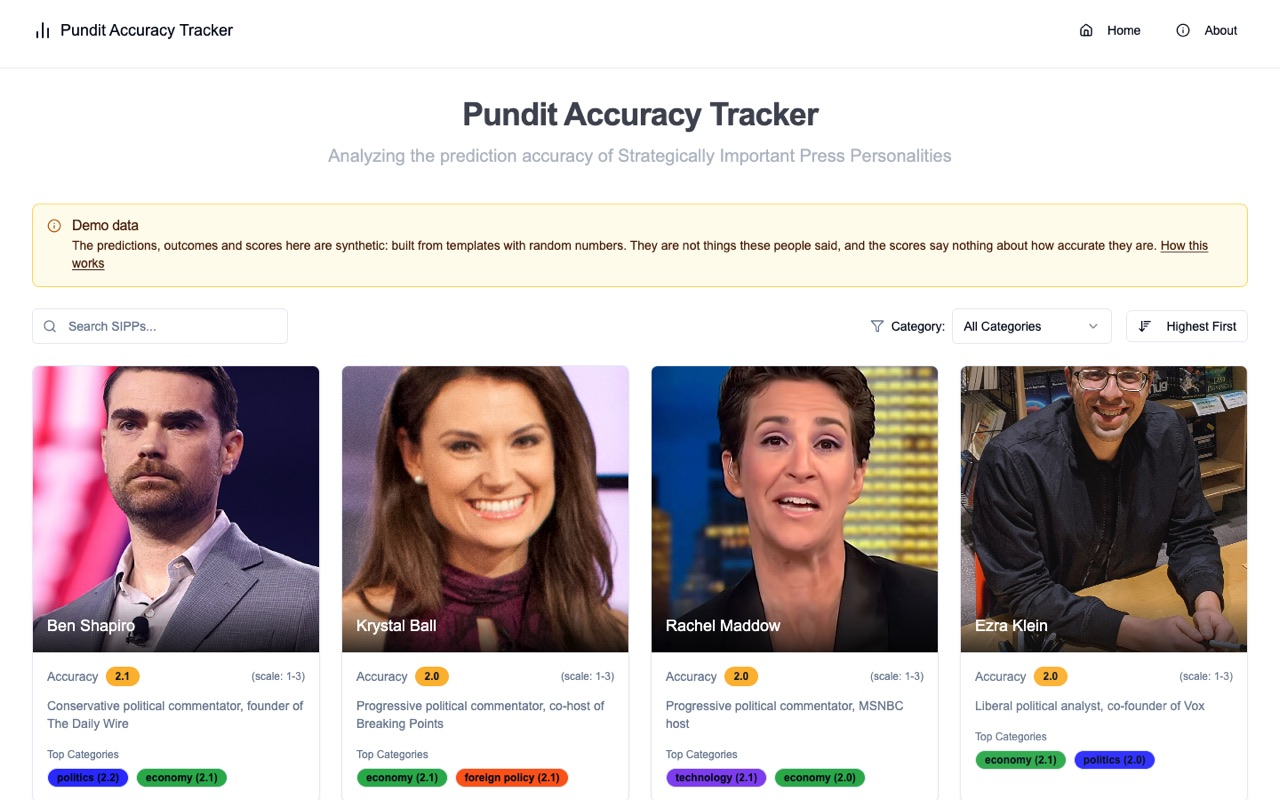
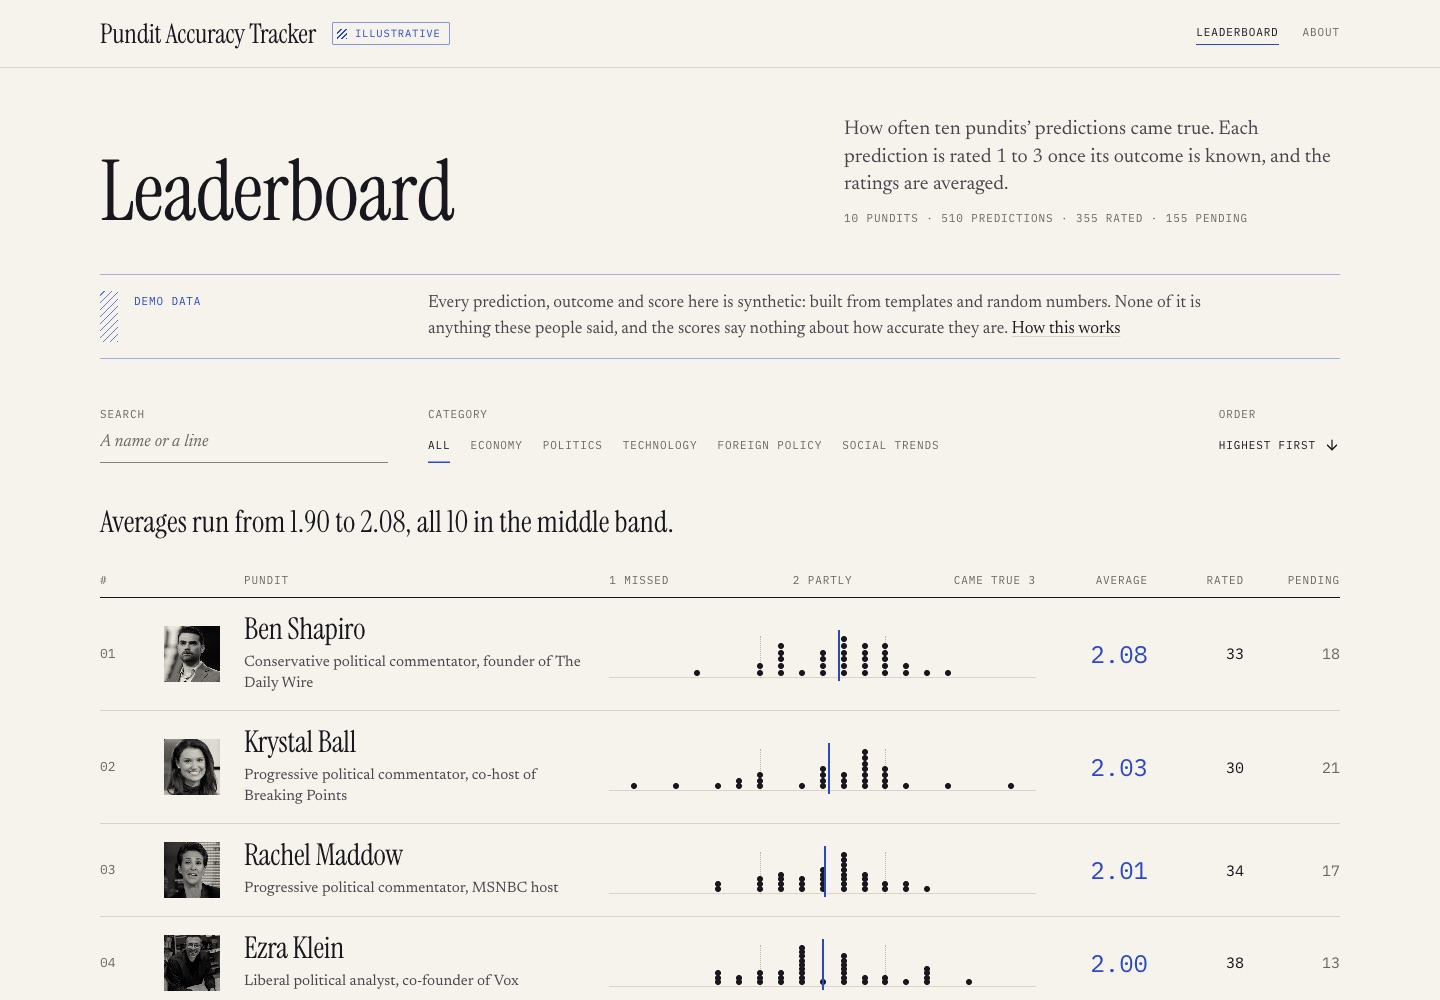
Refresh the README, screenshot and social image
The README opens with the Illustrative framing and points to
psychiatry-pundit-scorer, the newer and more robust take on the idea. It
drops Lovable, links pundit-accuracy-tracker.vercel.app, and describes
the bands, the design and the deploy. The social image is the wordmark
beside every rating in the data as one strip, flagged Illustrative, with
no names on it.

By: JJ Martin

diff --git a/README.md b/README.md
@@ -2,15 +2,19 @@
 
 A dashboard that scores how often prominent pundits' predictions came true, by category.
 
-JJ built it in March and April 2025 with [Lovable](https://lovable.dev), to ask a simple question: which press personalities get their predictions right? The code and the interface call them SIPPs, short for Strategically Important Press Personalities. Ten are listed. Each has a page with their predictions, a rating for every one that has played out, and scores by category.
+**Illustrative only.** Every prediction, outcome and score in this app is synthetic demo data, shown next to real people's names and photos. Nothing here is something they said, and no score says anything about how accurate anyone is. The app carries an "Illustrative" flag on every page.
 
-[![The dashboard](docs/screenshot.jpg)](https://sipp-sage-tracker.lovable.app/)
+For a more robust and more recent version of this idea, focused on psychiatry, see [psychiatry-pundit-scorer](https://github.com/itsmartinwho/psychiatry-pundit-scorer) (live at [psych-forecast-ledger.vercel.app](https://psych-forecast-ledger.vercel.app)).
 
-Live: [sipp-sage-tracker.lovable.app](https://sipp-sage-tracker.lovable.app/), a snapshot hosted by Lovable.
+JJ built this in March and April 2025 to ask a simple question: which press personalities get their predictions right? The code calls them SIPPs, short for Strategically Important Press Personalities. Ten are listed. Each has a page with their predictions, a rating for every one that has played out, and their averages by category.
+
+[![The leaderboard](docs/screenshot.jpg)](https://pundit-accuracy-tracker.vercel.app)
+
+Live: [pundit-accuracy-tracker.vercel.app](https://pundit-accuracy-tracker.vercel.app)
 
 ## The data is synthetic
 
-Read this before you trust a number. The predictions in `public/data/sippData.json` are not real. They are sentence templates ("The inflation rate will reach {X}% by {YEAR}") filled in with random numbers, dates and outcomes, and given random ratings. The names and photos are real people's. The predictions are not theirs, and the scores say nothing about how accurate anyone is. The app says so in a notice on every page.
+Read this before you trust a number. The predictions in `public/data/sippData.json` are not real. They are sentence templates ("The inflation rate will reach {X}% by {YEAR}") filled in with random numbers, dates and outcomes, and given random ratings. The names and photos are real people's. The predictions are not theirs, and the scores say nothing about how accurate anyone is. The app says so in the flag at the top of every page and in a note on every page with scores.
 
 How it happened: the script that built the data was meant to search the web for real predictions. It read the search response wrongly, so the search failed and it fell back to the templates, and it wrote the result out as data. All 510 predictions in the file match a template from that fallback. The script is gone. `npm run refresh-data` replaces it (below).
 
@@ -18,11 +22,11 @@ How it happened: the script that built the data was meant to search the web for 
 
 - Each prediction has one category: economy, politics, technology, foreign policy or social trends.
 - A prediction whose outcome is known is rated 1 (did not come true), 2 (partly: the right direction, the wrong size or timing) or 3 (came true as stated). One whose outcome is not known yet is pending and is not scored.
-- A person's score is the plain average of their ratings. A category score is the average of the ratings in that category, or their overall average if they have none there.
-- A score under 1.7 is shown red, 2.3 and over green, the rest amber. The "Normalized" figure on a prediction is its rating divided by 3.
+- A person's score is the plain average of their ratings. A category score is the average of the ratings in that category, or their overall average if they have none there; the pages show a dash for such a category.
+- An average under 1.7 is in the low band, 2.3 and over in the high band, and the rest in the middle.
 - There is no weighting for how hard or how specific a prediction was, or for how long it covered.
 
-The app judges nothing. It averages the ratings in the data file (`src/data/loadSipps.ts`, `src/data/predictionAnalysis.ts`), so the dashboard and the detail pages always agree.
+The app judges nothing. It averages the ratings in the data file (`src/data/loadSipps.ts`, `src/data/predictionAnalysis.ts`), so the leaderboard and the pundits' pages always agree.
 
 Who gave the ratings depends on the data. In data from `refresh-data`, a model with web search finds each prediction, decides whether its outcome is known, and gives the rating. No person checks it. Treat a score as a place to start, and follow the source links.
 
@@ -54,32 +58,38 @@ The script follows a few rules:
 - A prediction without a usable source link is dropped.
 - Someone with fewer than three rated predictions is left out, not padded.
 - If any of the ten fails, nothing is written, unless you pass `--allow-partial`.
-- It writes `public/data/sippData.json` with `"kind": "sourced"`. The notice in the app then reads "Not fact-checked" instead of "Demo data", and each prediction links its source.
+- It writes `public/data/sippData.json` with `"kind": "sourced"`. The note in the app then reads "Not fact-checked" instead of "Demo data", and each prediction links its source.
 
 The key is read by the script only. Never name it `VITE_OPENAI_API_KEY` or anything else starting with `VITE_`: Vite copies those into the browser bundle, where anyone can read them.
 
 `npm run refresh-data -- --help` lists the other options.
 
-## Lovable
+## Deploy
 
-Lovable syncs the `main` branch both ways. Pushing here does not republish the live site; press Publish in Lovable. Keep `src/`, `index.html` and the Vite config where they are, and keep both lockfiles.
+The site is a static Vite build on Vercel (project `pundit-accuracy-tracker`). Pushing to `main` deploys to production, and every pull request gets a preview. `vercel.json` sends every path to `index.html`, so a pundit's page loads from its own address.
+
+## Design
+
+Newsprint paper, blue-black ink and one accent, an editor's blue pencil, for whatever the page wants read first: an average, the current page, focus. Three faces, one job each, all from Google Fonts in their regular weight: Instrument Serif for names, Newsreader for sentences, IBM Plex Mono in small capitals for labels and figures. The charts are hand-built: each rated prediction is one dot on a 1-to-3 rule, and the average is a pencil line through them.
 
 ## Stack
 
-React 18, TypeScript, Vite, Tailwind CSS, shadcn/ui, Recharts, Framer Motion, React Router and TanStack Query. The OpenAI SDK is used by the refresh script only.
+React 18, TypeScript, Vite, Tailwind CSS, shadcn/ui (restyled through the theme tokens), React Router and TanStack Query. The OpenAI SDK is used by the refresh script only.
 
 ## Structure
 
 ```
-src/pages/        the dashboard, a pundit's page, About
-src/components/   cards, prediction rows, the data notice, ui/ (shadcn)
+src/pages/        the leaderboard, a pundit's page, About, the 404
+src/components/   the masthead, the leaderboard rows, the ratings strip, prediction rows, the data note, ui/ (shadcn)
+src/lib/          record.ts: what the pages read off a pundit's record (display only)
 src/data/         the loader and scoring, and the types
 public/data/      sippData.json, the one file the app reads
+public/portraits/ the portraits, and small/ copies the pages load
 scripts/          refresh-data.mjs (needs a key), check-bundle.mjs
 docs/             the screenshot
 ```
 
-The portraits in `public/lovable-uploads/` are photographs of real people. The licence below covers the code, not them. Replace them if you reuse the project.
+The portraits in `public/portraits/` are photographs of real people. The licence below covers the code, not them. Replace them if you reuse the project.
 
 ## Licence
 
